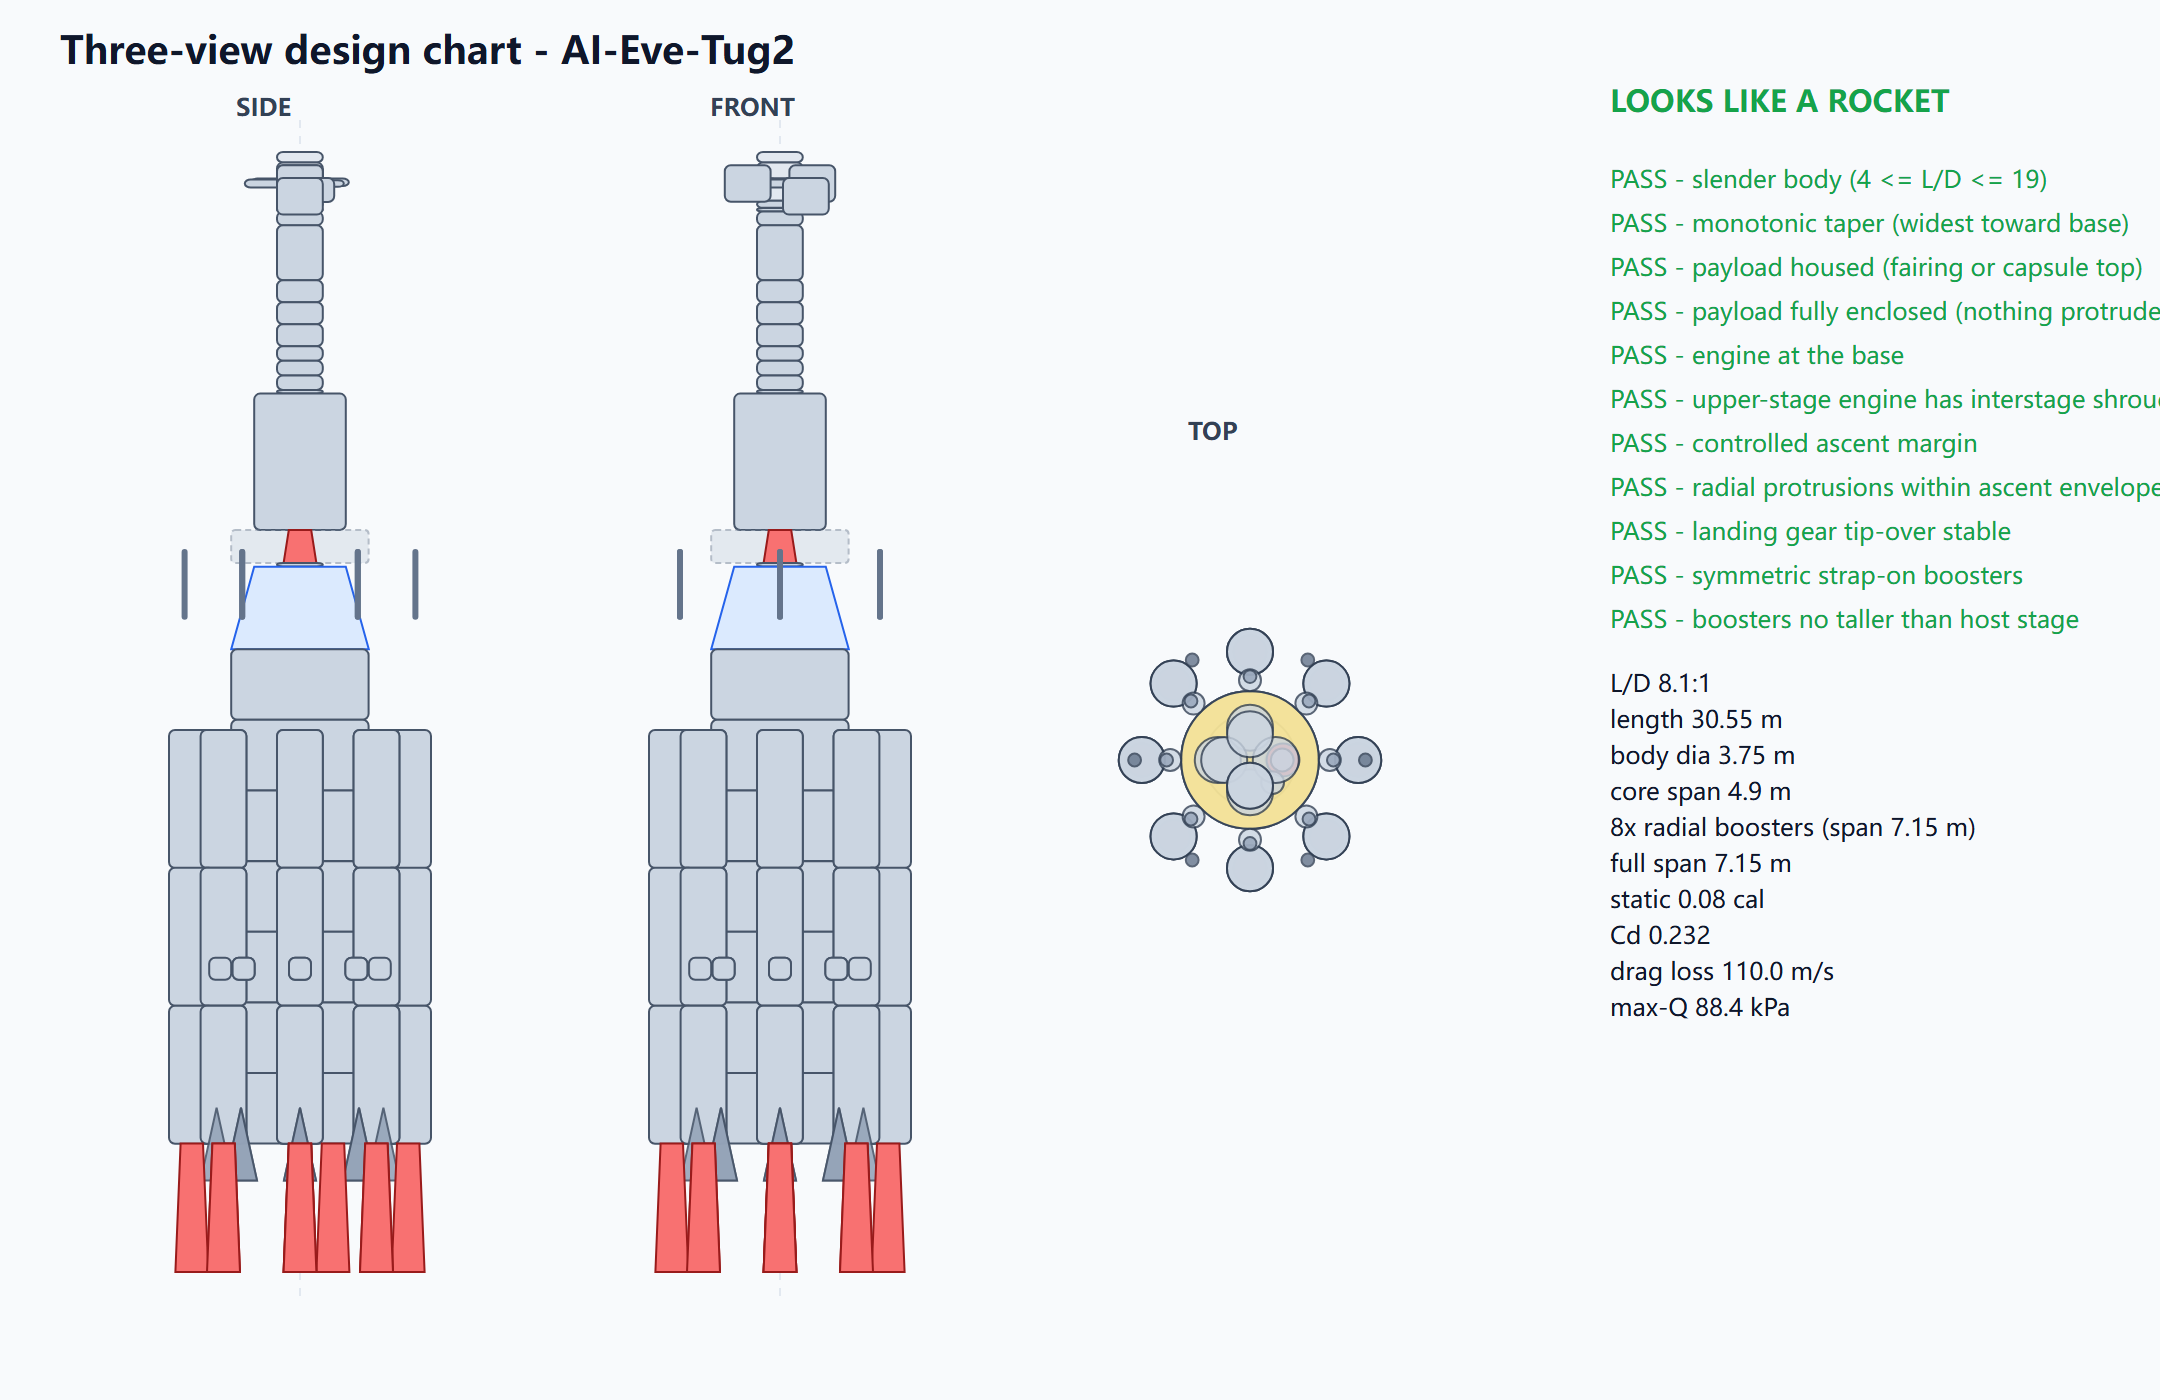
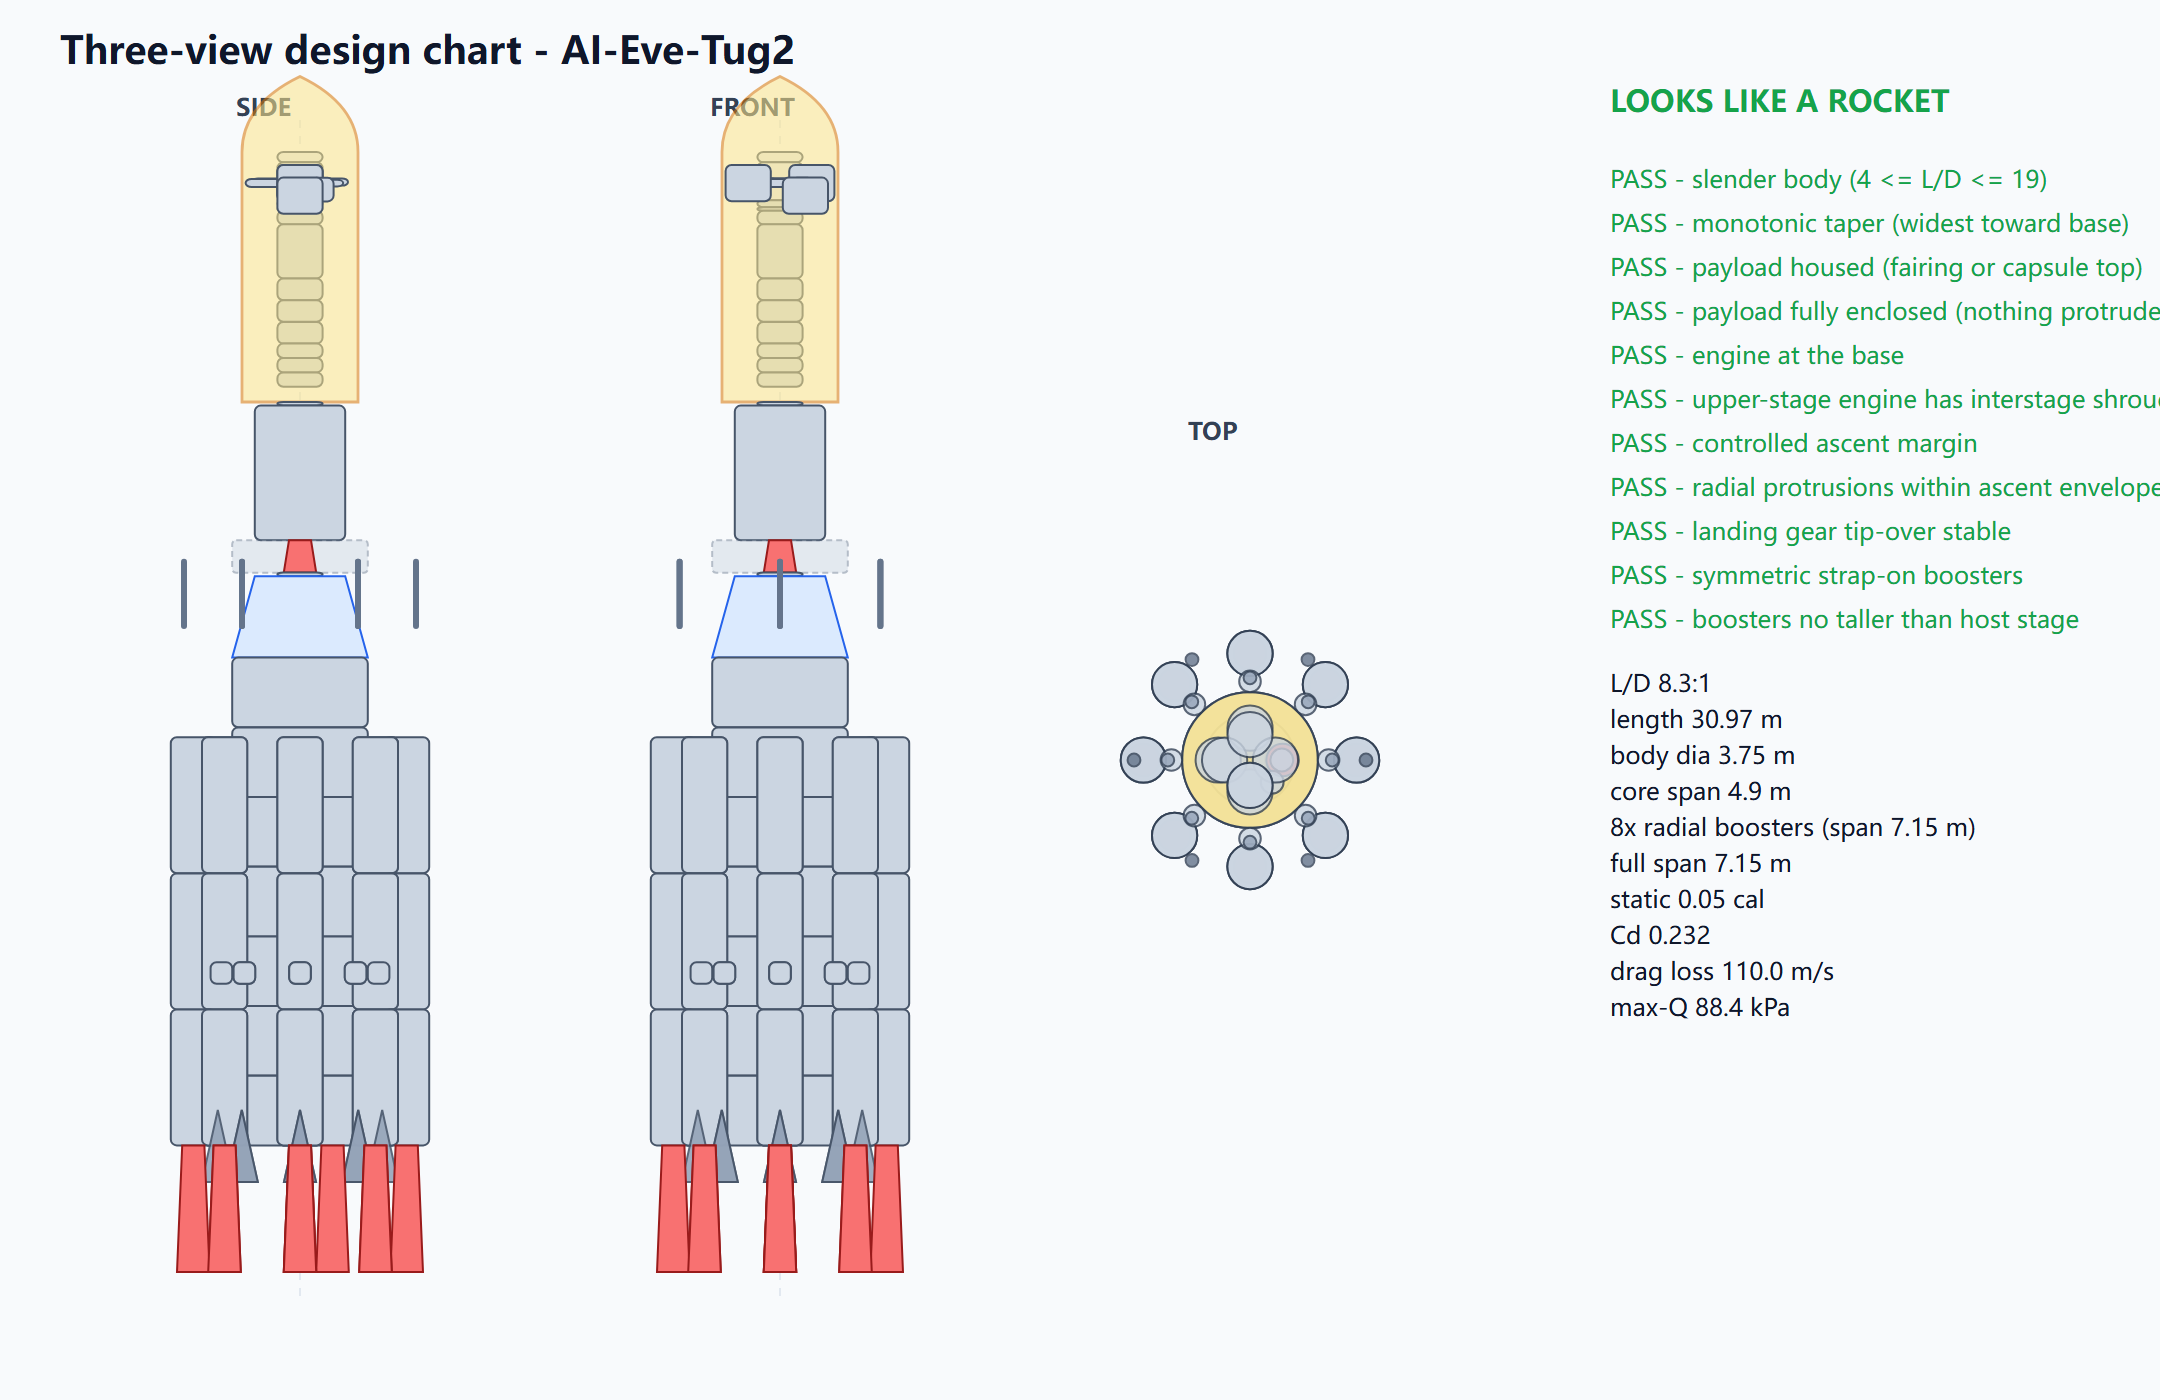
Fully enclose docking/crewed top service hardware in a launch fairing
Codex's final three-view review approved the relay (faired payload) but
flagged the crewed FERRY and return TUG: their TOP service hardware (the
Clamp-O-Tron docking port + RCS quad + monoprop tank + radial avionics
bus) protruded outside the upper stack with no fairing/capsule envelope
during ascent.

craft_writer.py:
- has_fairing now also fires for a DOCKING / SERVICE payload (any
  design.docking_port), so the ferry + tug ride inside the same ogive the
  relay uses instead of flying the Clamp-O-Tron/RCS/bus exposed.
- payload_top folds in the docking port's analytic top (root top + port
  height) so the ogive shoulder rises above the Clamp-O-Tron; the base
  radius already swallows the bus + RCS radial extent (+0.10 m clearance),
  so nothing protrudes the shell radius. The fairing still jettisons in
  orbit (deploy_relay.jettison_payload_fairings), exposing the docking
  port for the in-orbit rendezvous/dock.
- harvest fairingSize1 whenever design.docking_port so the live craft
  emits the shroud with full module state.

design_chart.py:
- _payload_enclosed_ok strengthened: besides rejecting any in-fairing
  part that pokes past the shell, it now REJECTS a vehicle that carries
  DOCKING_SERVICE_HARDWARE (docking port / RCS / monoprop tank) with no
  fairing enclosing it -- the naked-top-hardware case the old gate passed
  vacuously. The low avionics bus under a nose cone (EAV/landers) stays
  legitimate.
[…]

diff --git a/tests/test_craft_writer.py b/tests/test_craft_writer.py
@@ -5,6 +5,7 @@ import pytest
 from ksp_lab.craft_writer import CraftValidationError, CraftWriter, resolve_craft_path
 from ksp_lab.mission import MissionPlanner
 from ksp_lab.optimizer import HistoryOptimizer
+from ksp_lab.parts import part
 
 
 def test_craft_writer_outputs_parts(tmp_path: Path):
@@ -222,6 +223,67 @@ def test_crewed_reentry_capsule_rides_in_a_fairing_keeping_pod_heatshield_chutes
         #    not the ~0.35 unfaired blunt-capsule value, and the ascent margin gate stays True.
         assert design.drag_cd <= 0.26, f"faired crewed Cd should be near the relay ~0.23, got {design.drag_cd}"
         assert design.ascent_stable is True
+
+
+def _docking_ferry_design():
+    """The crewed Eve ferry: crew=1, docking port + RCS, 4 strap-ons, no heat shield (rides the tug home).
+    Its top bus carries the Clamp-O-Tron + RCS quad + monoprop tank + avionics — the docking service
+    hardware that must ride inside a launch fairing."""
+    from tools.design_eve_two_ship import crew_ferry
+    from ksp_lab.design import design_ship
+
+    return design_ship(crew_ferry())
+
+
+def test_docking_vehicle_rides_in_a_fairing_enclosing_its_top_service_hardware():
+    # CODEX FINAL FLAW: on a docking vehicle (crew ferry / return tug) the TOP service hardware — the
+    # Clamp-O-Tron docking port + RCS quad + monoprop tank + radial bus — stuck OUT past the narrow payload
+    # body during ascent. It must now ride inside the same launch fairing the relay uses, sized so NOTHING
+    # protrudes the ogive radius or rises above its shoulder. The fairing jettisons in orbit (exposing the
+    # docking port for the dock), so the docking port + RCS + bus parts are all STILL present.
+    design = _docking_ferry_design()
+    assert design.docking_port is True
+    part_bodies = {
+        "fairingSize1": (
+            "\tEVENTS\n\t{\n\t}\n\tMODULE\n\t{\n\t\tname = ModuleProceduralFairing\n"
+            "\t\tXSECTION\n\t\t{\n\t\t\th = 0\n\t\t\tr = 0.625\n\t\t}\n\t}"
+        ),
+        "mk1pod.v2": "\tEVENTS\n\t{\n\t}\n\tMODULE\n\t{\n\t\tname = ModuleCommand\n\t}",
+        "dockingPort2": "\tEVENTS\n\t{\n\t}\n\tMODULE\n\t{\n\t\tname = ModuleDockingNode\n\t}",
+        "RCSBlock": "\tEVENTS\n\t{\n\t}\n\tMODULE\n\t{\n\t\tname = ModuleRCSFX\n\t}",
+        "rcsTankRadialLong": "\tEVENTS\n\t{\n\t}\n\tRESOURCE\n\t{\n\t\tname = MonoPropellant\n\t}",
+    }
+    from ksp_lab.craft_writer import CraftWriter as _CW
+
+    for pb in (None, part_bodies):
+        nodes = _CW()._build_nodes(design, part_bodies=pb)
+        names = [n.part_name for n in nodes]
+        # 1) A launch fairing now shrouds the docking/service payload for ascent.
+        assert "fairingSize1" in names, "docking vehicle is missing its ascent payload fairing"
+        # The fairing's ogive shell IS the nose, so there is NO separate nose cone.
+        assert "noseCone" not in names, "a faired docking vehicle must not also carry a nose cone"
+        # 2) The docking port + RCS + monoprop tank survive inside the shroud (jettison only removes the
+        #    shell, exposing them in orbit for the dock).
+        assert "dockingPort2" in names, "docking vehicle lost its docking port"
+        assert names.count("RCSBlock") >= 4, "docking vehicle lost its RCS translation quad"
+        assert "rcsTankRadialLong" in names, "docking vehicle lost its monoprop tank"
+        # 3) The fairing shell radius (max XSECTION r) must swallow the OUTERMOST top appendage that is
+        #    actually carried for this part_bodies set — the docking RCS quad/monoprop tank and the bus
+        #    hardware — so nothing pokes through the ogive.
+        fb = next(n for n in nodes if n.part_name == "fairingSize1")
+        root = next(n for n in nodes if n.part_name == "mk1pod.v2")
+        import re as _re
+
+        shell_r = max(float(m) for m in _re.findall(r"r = ([\d.]+)", fb.fairing_xsections or ""))
+        appendage_r = max(
+            CraftWriter._bus_radial_extent(root, pb), CraftWriter._rcs_radial_extent(root, pb))
+        assert shell_r >= appendage_r, (
+            f"fairing shell r={shell_r} must enclose the top appendages (reach {appendage_r:.2f})")
+        # And the shell must rise above the docking port top (root top + port height).
+        dock_top = root.y + part("mk1pod.v2").height_m / 2.0 + part("dockingPort2").height_m
+        shell_top = fb.y + part("fairingSize1").height_m / 2.0 + max(
+            float(m) for m in _re.findall(r"h = ([\d.]+)", fb.fairing_xsections or ""))
+        assert shell_top >= dock_top, "fairing shoulder must rise above the docking port"
 
 
 def test_fairing_xsection_shell_is_overridden_to_wrap_this_payload():

diff --git a/tools/design_chart.py b/tools/design_chart.py
@@ -209,16 +209,55 @@ def _booster_height_ok(geom: list[dict], booster_names: set) -> tuple[bool, dict
     return ok, {"pod_top_y": round(pod_top, 2), "launch_stage_top_y": round(launch_top, 2)}
 
 
+# DOCKING SERVICE HARDWARE that must be shrouded for ascent: the docking port + its RCS translation quad +
+# the radial monoprop tank. Exposed on the narrow payload body the Clamp-O-Tron + RCS blocks + arms stick
+# out past the upper stack — exactly the "top service hardware protrudes outside the fairing/capsule
+# envelope" flaw Codex flagged on the crewed ferry + tug. A vehicle carrying these MUST ride in a launch
+# fairing (which jettisons in orbit, exposing the port for docking). NOTE: the low, tight avionics bus
+# (antenna/solar/RTG/battery) is NOT in this mandatory set — a finished comsat/lander legitimately flies it
+# under a nose cone — but when a fairing IS present, the in-fairing overshoot check below still requires the
+# shroud to contain that bus hardware too (so a too-small shroud clipping the solar wings still fails).
+DOCKING_SERVICE_HARDWARE = {"dockingPort2", "RCSBlock", "rcsTankRadialLong"}
+
+
 def _payload_enclosed_ok(geom: list[dict]) -> tuple[bool, dict]:
-    """FAIRING ENCLOSURE (Codex flaw #3): for every payload fairing, NO enclosed part — stack column or the
-    radially-mounted bus hardware (antenna/solar/RTG/battery/RCS) — may extend outside the shroud: not past
-    its radius (shell_r) and not above its ogive shoulder (shell_top). A capsule-top (no fairing) craft is
-    vacuously enclosed (the nose-part rule governs it). Returns (ok, metrics)."""
+    """FAIRING ENCLOSURE (Codex flaw #3 + final flaw): every payload appendage above the upper stage must be
+    HOUSED — either inside a payload fairing shroud, or (for a finished comsat with no service hardware on the
+    nose) trivially absent. Two ways this fails:
+
+      (a) a fairing is present but an enclosed part — the stack column OR the radially-mounted bus hardware
+          (antenna/solar/RTG/battery/RCS) — pokes OUTSIDE the shroud: past its radius (shell_r) or above its
+          ogive shoulder (shell_top); OR
+      (b) the top bus carries SERVICE HARDWARE (a docking port, RCS quad, radial antenna/solar/RTG/...) but
+          there is NO fairing enclosing it — so the Clamp-O-Tron + RCS + antenna stick out naked on ascent
+          (exactly the crewed ferry/tug flaw). A docking/service payload MUST ride in a launch fairing.
+
+    A plain capsule-top craft with no docking service hardware and no fairing is vacuously enclosed (the
+    nose-part rule governs it). Returns (ok, metrics)."""
     fairings = [g for g in geom if g["role"] == "fairing" and not g["surface"]]
+    # (b) Detect un-shrouded DOCKING service hardware (Clamp-O-Tron + RCS quad + monoprop tank). Such a part
+    # is "naked" when no payload fairing's shroud both reaches it in radius AND rises above it (i.e. it is
+    # not contained by ANY fairing). With no fairing at all, every docking-service part is naked.
+    naked: list[dict] = []
+    for g in geom:
+        if g["name"] not in DOCKING_SERVICE_HARDWARE:
+            continue
+        reach_r = math.hypot(g["x"], g["z"]) + g["draw_dia"] / 2.0
+        housed = any(
+            g["y"] > f["y"]
+            and reach_r <= f.get("shell_r", f["dia"] / 2.0) + 1e-6
+            and g["top"] <= f.get("shell_top", f["top"]) + 1e-6
+            for f in fairings
+        )
+        if not housed:
+            naked.append(g)
     if not fairings:
-        return True, {}
+        # No fairing: ok ONLY if there is no top service hardware to shroud (a finished comsat/capsule top).
+        ok = not naked
+        return ok, {"unshrouded_service_parts": len(naked),
+                    "max_radial_overshoot_m": 0.0, "max_vertical_overshoot_m": 0.0}
     worst_r = worst_dy = 0.0
-    ok = True
+    ok = not naked
     for f in fairings:
         shell_r = f.get("shell_r", f["dia"] / 2.0)
         shell_top = f.get("shell_top", f["top"])
@@ -229,7 +268,9 @@ def _payload_enclosed_ok(geom: list[dict]) -> tuple[bool, dict]:
             worst_dy = max(worst_dy, g["top"] - shell_top)
             if reach_r > shell_r + 1e-6 or g["top"] > shell_top + 1e-6:
                 ok = False
-    return ok, {"max_radial_overshoot_m": round(worst_r, 2), "max_vertical_overshoot_m": round(worst_dy, 2)}
+    return ok, {"unshrouded_service_parts": len(naked),
+                "max_radial_overshoot_m": round(worst_r, 2),
+                "max_vertical_overshoot_m": round(worst_dy, 2)}
 
 
 def _interstage_shroud_ok(geom: list[dict]) -> tuple[bool, dict]:

diff --git a/src/ksp_lab/craft_writer.py b/src/ksp_lab/craft_writer.py
@@ -157,14 +157,18 @@ class CraftWriter:
         # Payload fairing harvest. An uncrewed no-legs probe comsat rides in one; a CREWED REENTRY CAPSULE
         # (heat-shield + chutes, no docking port) ALSO rides in one (the blunt exposed pod+heat-shield was
         # the +0.12 Cd ascent penalty that made the crew vehicle draggy/unstable and burn all its Δv
-        # suborbital). The fairing shrouds the pod+heat-shield+chutes through max-Q, then jettisons in orbit
-        # leaving them intact for the Kerbin-return reentry (see has_fairing in _build_nodes + the deploy
-        # fairing jettison). Mirror the has_fairing predicate so harvest and emission stay in lock-step.
+        # suborbital); and a DOCKING / SERVICE PAYLOAD (docking port + RCS + bus hardware on top) rides in
+        # one too so the Clamp-O-Tron + RCS + antenna/solar do not protrude during ascent. The fairing
+        # shrouds the top through max-Q, then jettisons in orbit leaving everything intact (exposing the
+        # docking port for rendezvous, the heat-shield+chutes for reentry). See has_fairing in
+        # _build_nodes + the deploy fairing jettison. Mirror that predicate so harvest+emission stay in
+        # lock-step.
         _crewed_reentry_capsule = bool(
             design.crewed and design.heatshield and not design.docking_port
             and int(round(design.estimates.get("parachutes", 0))) > 0
         )
-        if (not design.crewed and not design.landing_legs) or _crewed_reentry_capsule:
+        if ((not design.crewed and not design.landing_legs)
+                or _crewed_reentry_capsule or design.docking_port):
             names.add("fairingSize1")
         # INTERSTAGE SHROUD (flaw #4): any multi-stage design wraps each exposed upper-stage engine in an
         # interstage tube at the LOWER stage's diameter — harvest the 2.5 m / 3.75 m procedural fairing
@@ -439,7 +443,7 @@ class CraftWriter:
         # (computed XSECTIONS) wraps everything above it into a pointed nose and is jettisoned in orbit
         # before the dish + solar deploy. The base diameter matches the payload body.
         #
-        # Two payloads ride faired:
+        # Three payloads ride faired:
         #  - an UNCREWED, no-legs probe comsat (the relay), and
         #  - a CREWED REENTRY CAPSULE: a crewed vehicle that returns by heat-shield + chutes (no docking
         #    port, no propulsive landing legs). The blunt EXPOSED Mk1 pod + forward heat-shield was the
@@ -447,14 +451,26 @@ class CraftWriter:
         #    unstable — it tumbled the gravity turn and burned all ~10 km/s of Δv suborbital. Shrouding the
         #    capsule in the same ogive the relay uses brings Cd back to ~0.23. The fairing is jettisoned in
         #    orbit (deploy_relay/crewed_eve_roundtrip fairing jettison), which removes ONLY the shell and
-        #    leaves the pod + heat-shield + chutes intact for the Kerbin-return reentry. A crewed Starship
-        #    lander (docking_port, propulsive legs, 0 chutes) keeps its OWN nose and is NOT faired here.
+        #    leaves the pod + heat-shield + chutes intact for the Kerbin-return reentry, and
+        #  - a DOCKING / SERVICE PAYLOAD (Codex final flaw): any vehicle whose top bus carries a DOCKING
+        #    PORT (+ the RCS quad + monoprop tank) — the crew ferry and the return tug. Without a fairing
+        #    the Clamp-O-Tron + RCS blocks + radial antenna/solar/RTG STUCK OUT past the narrow payload
+        #    body during ascent (the "top service hardware protrudes" flaw). They must ride inside the same
+        #    ogive the relay uses; the fairing is jettisoned IN ORBIT (eve_two_ship_return jettison ->
+        #    deploy_relay.jettison_payload_fairings), which removes ONLY the shell and EXPOSES the docking
+        #    port (+ heat shield + chutes on the tug) for the in-orbit rendezvous/dock and reentry. A crewed
+        #    Starship-style propulsive lander (docking_port + legs but mid-mission descent) is the natural
+        #    candidate too — its top hardware is shrouded for launch and bared at the same in-orbit jettison.
         crewed_reentry_capsule = bool(
             design.crewed and design.heatshield and not design.docking_port
             and int(round(design.estimates.get("parachutes", 0))) > 0
         )
+        # A docking / service payload: the top bus carries a docking port and (always, with it) the radial
+        # RCS quad + monoprop tank + the avionics bus, so the ENTIRE top must be shrouded for ascent.
+        docking_service_payload = bool(design.docking_port)
         has_fairing = (
-            ((not design.crewed and not design.landing_legs) or crewed_reentry_capsule)
+            ((not design.crewed and not design.landing_legs)
+             or crewed_reentry_capsule or docking_service_payload)
             and (part_bodies is None or "fairingSize1" in part_bodies))
         if has_fairing:
             payload_top = max(n.y + part(n.part_name).height_m / 2.0 for n in nodes if not n.is_surface)
@@ -463,6 +479,13 @@ class CraftWriter:
             # is tall enough to enclose the solar wings (they were poking out the nose otherwise).
             bus_acc_top = root.y - 0.05 + self._bus_vertical_halfspan(part_bodies)
             payload_top = max(payload_top, bus_acc_top)
+            # The DOCKING PORT is stack-attached ABOVE `root` (top node, up=True) further down in this
+            # method, so it is not yet in `nodes` here. Fold its top into payload_top analytically (same
+            # _attach geometry: root top + the port's own height) so the shroud rises ABOVE the Clamp-O-Tron
+            # — otherwise the docking port poked out the nose (the "top service hardware protrudes" flaw).
+            if design.docking_port:
+                dock_top = root.y + part(root.part_name).height_m / 2.0 + part("dockingPort2").height_m
+                payload_top = max(payload_top, dock_top)
             fb = new_node("fairingSize1", 0)
             self._attach(current, fb, "bottom", "top")
             # FAIRING ENCLOSURE (Codex flaw #3): the shroud must CONTAIN every payload appendage, not just
@@ -822,7 +845,11 @@ class CraftWriter:
 
         if design.docking_port and can_emit("dockingPort2"):
             # Clamp-O-Tron on the nose = the mating surface for an in-orbit rendezvous (Orion<->HLS
-            # crew transfer). It IS the streamlined nose, so no separate nose cone. inverse-stage 0.
+            # crew transfer). For ASCENT it is NOT the exposed nose — a docking-service payload is now
+            # SHROUDED in the payload fairing built above (has_fairing is True when design.docking_port),
+            # so the Clamp-O-Tron + RCS + bus hardware ride inside the ogive and nothing protrudes. The
+            # fairing is jettisoned in orbit (deploy_relay.jettison_payload_fairings), exposing this port
+            # for the in-orbit dock. No separate nose cone either way. inverse-stage 0.
             dock = new_node("dockingPort2", 0)
             self._attach(root, dock, "top", "bottom", up=True)
             nodes.append(dock)

diff --git a/tests/test_design_chart.py b/tests/test_design_chart.py
@@ -206,6 +206,43 @@ def test_gate_rejects_an_exposed_upper_stage_engine_without_an_interstage_shroud
     assert m2["unshrouded"] >= 1
 
 
+def test_gate_rejects_unshrouded_top_docking_hardware():
+    # CODEX FINAL FLAW: a docking vehicle whose Clamp-O-Tron + RCS quad + monoprop tank ride EXPOSED on the
+    # nose (no enclosing fairing) must FAIL the enclosure gate — the top service hardware protrudes past the
+    # narrow payload body. The fixed ferry encloses them in a fairing; strip the fairing and confirm rejection.
+    from tools.design_eve_two_ship import crew_ferry
+    from ksp_lab.design import design_ship
+
+    design = design_ship(crew_ferry())
+    geom = design_chart.assembly_geometry(design)
+    ok_clean, m = design_chart._payload_enclosed_ok(geom)
+    assert ok_clean is True, m                                  # faired ferry: docking hardware housed
+    # Remove the fairing -> the docking port + RCS + monoprop tank are now naked on the nose.
+    no_fairing = [g for g in geom if g["role"] != "fairing"]
+    ok_bad, m2 = design_chart._payload_enclosed_ok(no_fairing)
+    assert ok_bad is False, m2
+    assert m2["unshrouded_service_parts"] >= 1                  # at least the docking port reads as naked
+
+
+def test_gate_passes_the_docking_ferry_and_tug_with_the_enclosure_check():
+    # The crewed ferry + return tug (docking port + RCS + bus) now PASS the full gate — their top service
+    # hardware is housed in a launch fairing (matching the relay Codex approved), nothing protrudes.
+    from tools.design_eve_two_ship import crew_ferry, return_tug
+    from ksp_lab.design import design_ship
+
+    for req in (crew_ferry(), return_tug()):
+        d = design_ship(req)
+        assert d.docking_port is True
+        rep = design_chart.looks_like_a_rocket(d)
+        assert rep["looks_like_a_rocket"], (req.name, rep["checks"])
+        assert rep["checks"]["payload fully enclosed (nothing protrudes the fairing)"]
+        # The craft really carries a payload fairing shroud (not just chart-only).
+        from ksp_lab.craft_writer import CraftWriter
+
+        text = CraftWriter().render(d, part_bodies=None)
+        assert "part = fairingSize1" in text, f"{req.name} must carry an enclosing payload fairing"
+
+
 def test_relay_emits_an_interstage_shroud_part_in_the_craft():
     # FLAW #4 (craft): the interstage shroud must also be a real part in the .craft (a procedural fairing
     # base at the lower stage diameter), not chart-only — so the launched vessel houses the upper engine.